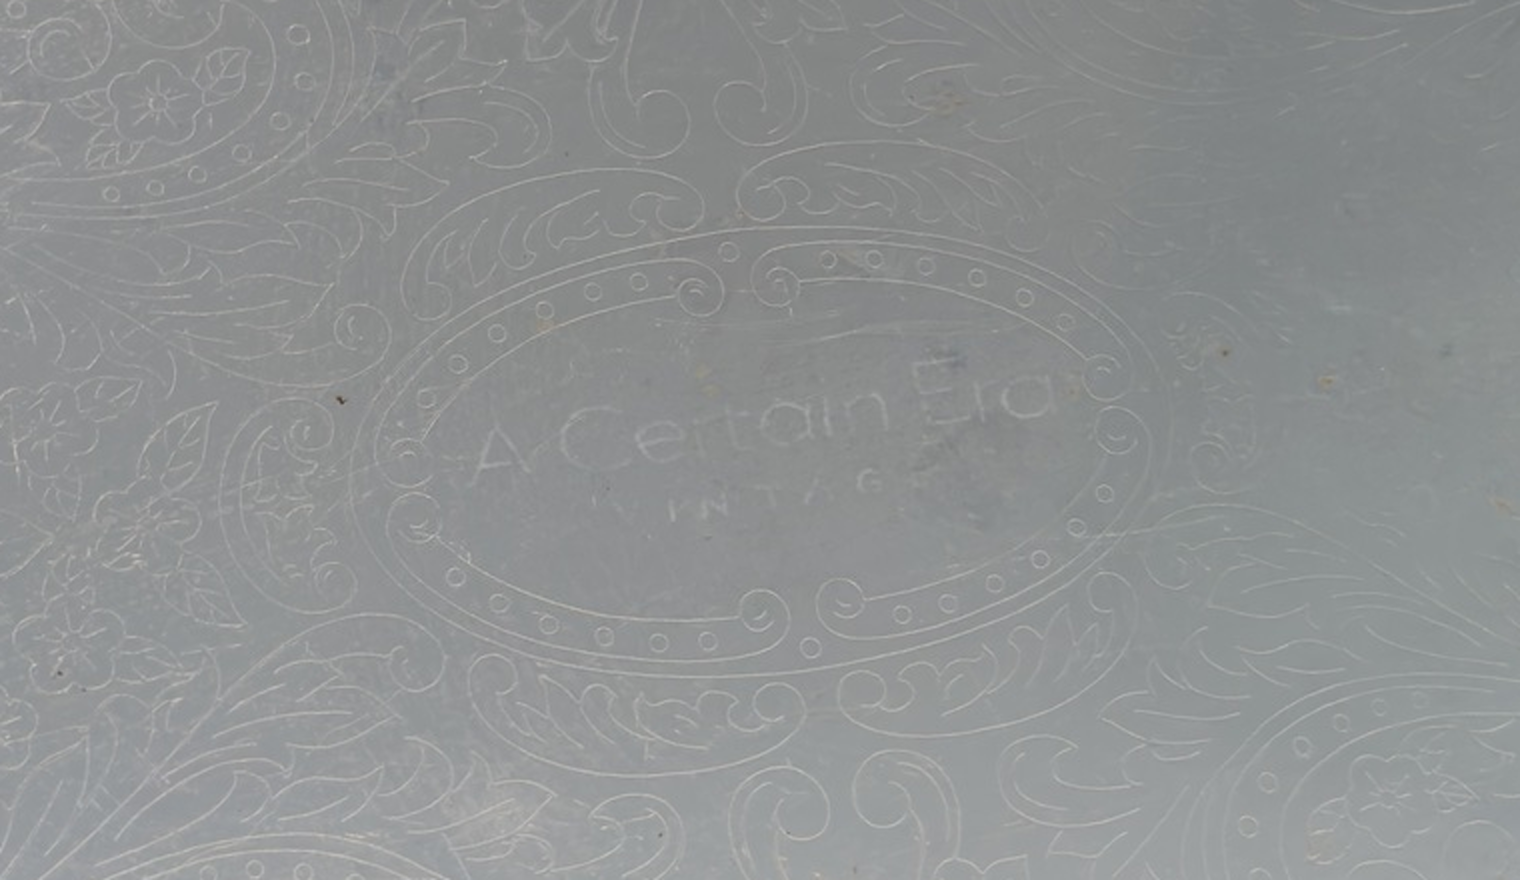
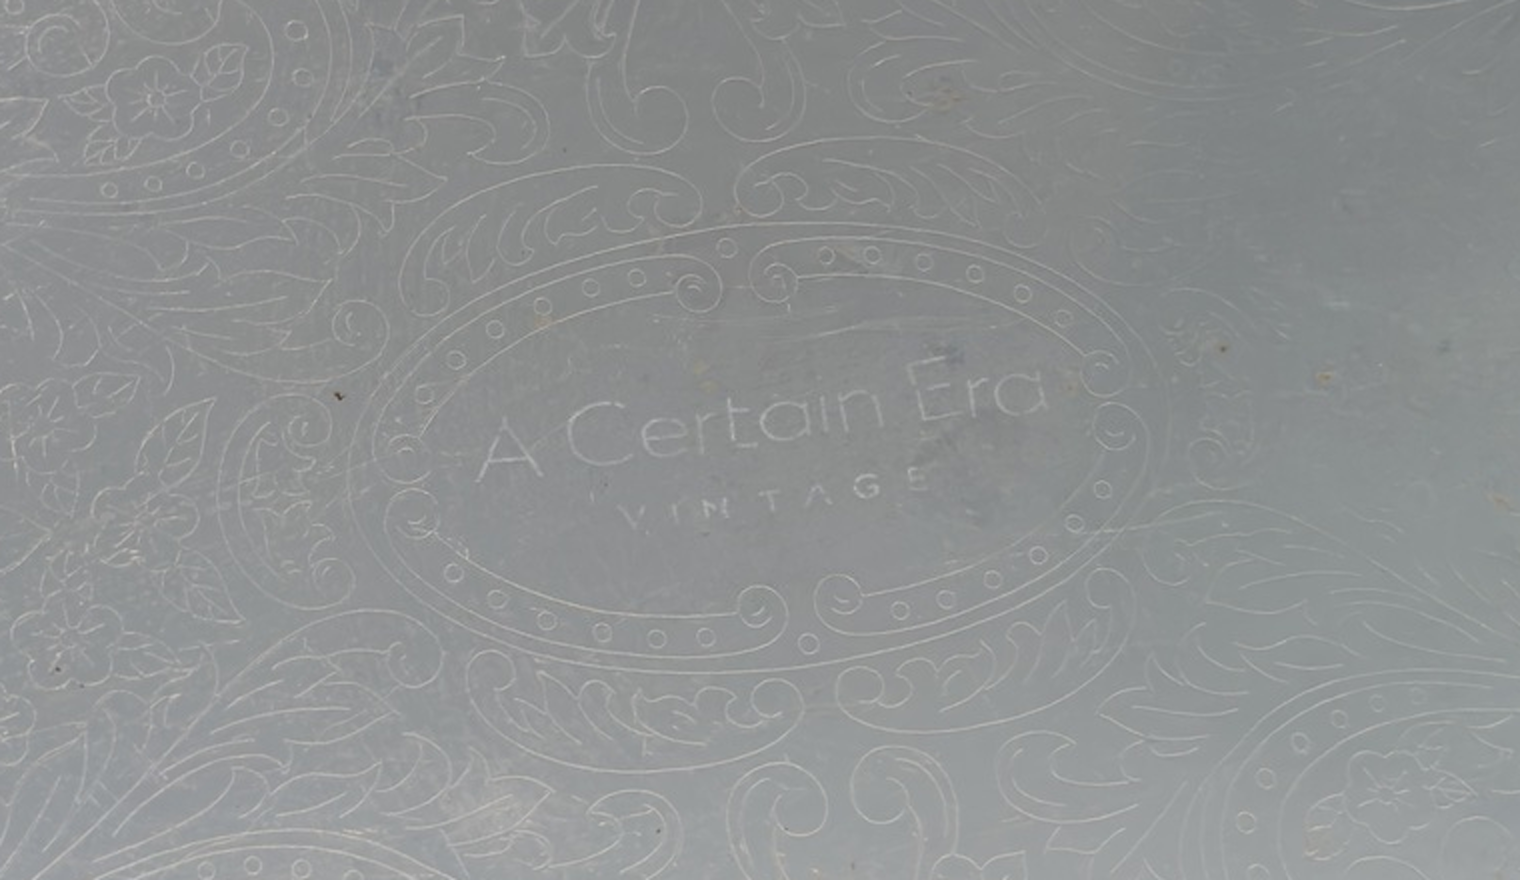
Add local engraving composite pipeline, composites and inpaint masks
Claude-Session: https://claude.ai/code/session_01FnoNauvw2znjSJTbPPxPyf

diff --git a/grawer/composite/make_composite.py b/grawer/composite/make_composite.py
@@ -36,34 +36,39 @@ CENTER        = (1106, 1300)    # where the centre of the text block lands
 APPARENT_TILT = -7.0            # deg, image-space slope of the tray's long axis (neg = right side up)
 FORESHORTEN   = 0.84            # vertical squash from camera tilt (1 = straight top-down)
 KEYSTONE      = 0.985           # far(top) edge width / near(bottom) edge width over the text height
-TEXT_WIDTH    = {'third': 490, 'cartouche': 300}[VARIANT]   # px width of "A Certain Era" before squash
+TEXT_WIDTH    = {'third': 420, 'cartouche': 290}[VARIANT]   # px width of "A Certain Era" before squash
 VINTAGE_SCALE = 1.12            # VINTAGE line slightly enlarged vs logo (engravers keep small caps legible)
-LINE_GAP_ADD  = 0.10            # extra gap between the two lines (fraction of cap height)
+LINE_GAP_ADD  = 0.30            # extra gap between the two lines (fraction of cap height)
 
 # Engraved line look (final image pixels)
 SS            = 4               # supersampling factor for drawing
-LINE_W        = 1.9             # core width of a burin cut
-LINE_GAIN     = 0.20            # how far toward white the cut lifts the metal (existing lines ~0.15-0.25)
+LINE_W        = 1.7             # core width of a burin cut
+LINE_GAIN     = 0.30            # how far toward white the cut lifts the metal (existing lines ~0.15-0.25)
 DARK_EDGE     = 7.0             # grey levels of faint shadow on one side of the cut (0 = off)
 DARK_DIR      = (0.0, 1.0)      # unit vector (x,y) image space: shadow side (light from top)
-WOBBLE_AMP    = 0.55            # px, slow hand wobble
-WOBBLE_SCALE  = 9.0             # px, wavelength-ish of wobble
-TREMOR_AMP    = 0.22            # px, fine tremor
+WOBBLE_AMP    = 0.40            # px, slow hand wobble
+WOBBLE_SCALE  = 16.0            # px, wavelength-ish of wobble
+TREMOR_AMP    = 0.07            # px, fine tremor
 BASELINE_AMP  = 1.6             # px, slow baseline drift across the line of text
 LETTER_JIT    = (0.7, 0.6, 1.3) # per-letter sigma: dx px, dy px, rotation deg
-OPACITY_RANGE = (0.35, 1.0)     # along-stroke strength variation (wear / pressure)
-GAP_FRACTION  = 0.07            # fraction of stroke length that skips/worn away
+OPACITY_RANGE = (0.50, 1.0)     # along-stroke strength variation (wear / pressure)
+GAP_FRACTION  = 0.04            # fraction of stroke length that skips/worn away
 N_RECUTS      = 4               # number of doubled (re-cut) segments
 N_SLIPS       = 3               # tiny burin overshoot tails at stroke ends
-SPARKLE       = 0.45            # multiplicative frosted glint noise amplitude
-FINAL_BLUR    = 0.55            # gaussian sigma to match photo softness
+SPARKLE       = 0.28            # multiplicative frosted glint noise amplitude
+FINAL_BLUR    = 0.40            # gaussian sigma to match photo softness
 JPEG_ROUNDTRIP= 92              # re-encode composite through JPEG at this quality (0 = off)
 
 # Cartouche clearing (fade existing floral lines under/around the text)
+# For 'third' the text is larger than the existing dotted cartouche, so we engrave a NEW
+# double-line oval frame (same burin look) around the text and remove the old floral lines
+# inside it -- exactly what an engraver adding a presentation inscription would do.
 CLEAR         = {'third': True, 'cartouche': False}[VARIANT]
-CLEAR_PAD     = (40, 22)        # px padding of the cleared ellipse around the text block
-CLEAR_FEATHER = 18              # px soft edge of the cleared zone
-CLEAR_AMOUNT  = 0.85            # 1 = lines fully removed in the centre of the zone
+FRAME_AXES    = (272, 142)      # px semi-axes of the new oval frame (tray plane, pre-squash);
+                                # chosen to enclose the text AND the old dotted cartouche completely
+BORDER_GAP    = 5.0             # px between the two frame lines (0 = single line)
+CLEAR_FEATHER = 1.5             # px soft edge of the cleared zone (just inside the frame)
+CLEAR_AMOUNT  = 1.0             # 1 = old lines fully removed inside the frame
 
 rng = np.random.default_rng(SEED)
 
@@ -180,13 +185,25 @@ for k, (gx0, gx1, gl) in groups.items():
 mask = (work > 0.5).astype(np.uint8)
 ys, xs = np.where(mask)
 pad = int(12 * SS)
-y0, y1, x0, x1 = max(0, ys.min() - pad), ys.max() + pad, max(0, xs.min() - pad), xs.max() + pad
-mask = mask[y0:y1, x0:x1]
+padx = pady = pad
+if CLEAR:
+    padx = max(pad, int((FRAME_AXES[0] + 8) * SS - (xs.max() - xs.min()) / 2))
+    pady = max(pad, int((FRAME_AXES[1] + 8) * SS - (ys.max() - ys.min()) / 2))
+mask = np.pad(mask, ((pady, pady), (padx, padx)))
+mask = mask[ys.min(): ys.max() + 2 * pady, xs.min(): xs.max() + 2 * padx]
 mask = cv2.morphologyEx(mask, cv2.MORPH_CLOSE, np.ones((3, 3), np.uint8))
 
 # ----------------------------------------------------------------- 2. centreline (single burin cut)
 skel = zhang_suen(mask)
 Hs, Ws = skel.shape
+if CLEAR:
+    ax, ay = int(FRAME_AXES[0] * SS), int(FRAME_AXES[1] * SS)
+    cv2.ellipse(skel, (Ws // 2, Hs // 2), (ax, ay), 0, 0, 360, 1, 1)
+    if BORDER_GAP > 0:
+        g_ = int(BORDER_GAP * SS)
+        cv2.ellipse(skel, (Ws // 2, Hs // 2), (ax - g_, ay - g_), 0, 0, 360, 1, 1)
+    zone_plane = np.zeros((Hs, Ws), np.float32)
+    cv2.ellipse(zone_plane, (Ws // 2, Hs // 2), (ax + int(1.5 * SS), ay + int(1.5 * SS)), 0, 0, 360, 1, -1)
 
 # endpoints (for slips) & skeleton pixel list
 nb = cv2.filter2D(skel.astype(np.float32), -1, np.ones((3, 3), np.float32)) - skel
@@ -202,7 +219,7 @@ if len(endpoints):
         v = np.array([ey, ex]) - nbh.mean(0)
         if np.linalg.norm(v) < 1e-3: continue
         v /= np.linalg.norm(v)
-        L = rng.uniform(2.5, 5.5) * SS
+        L = rng.uniform(1.5, 3.5) * SS
         bend = rng.normal(0, 0.15)
         p1 = (int(ex + (v[1] + bend * v[0]) * L), int(ey + (v[0] - bend * v[1]) * L))
         cv2.line(slips, (int(ex), int(ey)), p1, 1, 1)
@@ -280,20 +297,27 @@ block = cv2.warpPerspective(np.ones((hf, wf), np.float32), Hm, (Wb, Hb))
 out = base.copy()
 ys, xs = np.where(layer > 0.05)
 ecx, ecy = (xs.min() + xs.max()) / 2, (ys.min() + ys.max()) / 2
-eax, eay = (xs.max() - xs.min()) / 2 + CLEAR_PAD[0], (ys.max() - ys.min()) / 2 + CLEAR_PAD[1]
+eax, eay = (xs.max() - xs.min()) / 2, (ys.max() - ys.min()) / 2
 if CLEAR:
-    zone = np.zeros((Hb, Wb), np.float32)
-    cv2.ellipse(zone, (int(ecx), int(ecy)), (int(eax), int(eay)), APPARENT_TILT, 0, 360, 1, -1)
+    zsmall = cv2.resize(zone_plane, (wf, hf), interpolation=cv2.INTER_AREA)
+    zone = cv2.warpPerspective(zsmall, Hm, (Wb, Hb))
     zone = cv2.GaussianBlur(zone, (0, 0), CLEAR_FEATHER) * CLEAR_AMOUNT
+    # remove old engraved lines: detect them (bright thin = top-hat), inpaint, then
+    # rebuild a smooth metal base + re-synthesised grain so the patch is not plasticky
     g = cv2.cvtColor(base.astype(np.uint8), cv2.COLOR_BGR2GRAY)
-    th_ = cv2.morphologyEx(g, cv2.MORPH_TOPHAT, np.ones((9, 9), np.uint8))
-    linemask = ((th_ > 7) & (zone > 0.02)).astype(np.uint8) * 255
-    linemask = cv2.dilate(linemask, np.ones((3, 3), np.uint8))
-    clean = cv2.inpaint(base.astype(np.uint8), linemask, 4, cv2.INPAINT_TELEA).astype(np.float32)
-    # inpaint loses grain: put back fine noise from the original high-pass
-    hp = base - cv2.GaussianBlur(base, (0, 0), 1.2)
-    hp_clean = np.where(linemask[..., None] > 0, np.roll(hp, 7, axis=1), hp)
-    clean = cv2.GaussianBlur(clean, (0, 0), 1.2) + hp_clean
+    th_ = cv2.morphologyEx(g, cv2.MORPH_TOPHAT, np.ones((11, 11), np.uint8))
+    linemask = ((th_ > 4) & (zone > 0.01)).astype(np.uint8) * 255
+    linemask = cv2.dilate(linemask, np.ones((5, 5), np.uint8))
+    clean = cv2.inpaint(base.astype(np.uint8), linemask, 6, cv2.INPAINT_TELEA).astype(np.float32)
+    clean = cv2.medianBlur(clean.astype(np.uint8), 9).astype(np.float32)
+    clean = cv2.GaussianBlur(clean, (0, 0), 3.0)
+    # grain statistics from a line-free part of the original metal
+    hp = base - cv2.GaussianBlur(base, (0, 0), 1.0)
+    free = (linemask == 0) & (zone > 0.5)
+    gstd = hp[free].std(0) if free.sum() > 100 else np.float32([2, 2, 2])
+    n_ = rng.standard_normal((Hb, Wb)).astype(np.float32)
+    n_ = cv2.GaussianBlur(n_, (0, 0), 0.7); n_ /= n_.std()
+    clean = clean + n_[..., None] * gstd[None, None, :] * 0.9
     out = base * (1 - zone[..., None]) + clean * zone[..., None]
 
 # ----------------------------------------------------------------- 6. blend the cut
@@ -325,7 +349,10 @@ crop = out[cy0:cy0 + 440, cx0:cx0 + 760]
 cv2.imwrite(os.path.join(OUT_DIR, f'composite-{v}-zoom.png'), cv2.resize(crop, None, fx=2, fy=2, interpolation=cv2.INTER_CUBIC))
 # inpaint mask: text block + generous margin, soft edge (white = editable)
 im = np.zeros((Hb, Wb), np.float32)
-cv2.ellipse(im, (int(ecx), int(ecy)), (int(eax + 30), int(eay + 30)), APPARENT_TILT, 0, 360, 1, -1)
+cv2.ellipse(im, (int(ecx), int(ecy)), (int(eax + 28), int(eay + 24)), APPARENT_TILT, 0, 360, 1, -1)
 im = cv2.GaussianBlur(im, (0, 0), 6)
 cv2.imwrite(os.path.join(OUT_DIR, f'mask-inpaint-{v}.png'), (im * 255).astype(np.uint8))
 print('done', v, 'text bbox', xs.min(), xs.max(), ys.min(), ys.max())
+# tight mask: only the cuts + 6 px (re-texture lines without letting the model redraw glyphs)
+tight = cv2.dilate((layer * LINE_GAIN * 255 * 2 > 10).astype(np.uint8) * 255, cv2.getStructuringElement(cv2.MORPH_ELLIPSE, (13, 13)))
+cv2.imwrite(os.path.join(OUT_DIR, f'mask-inpaint-tight-{v}.png'), cv2.GaussianBlur(tight, (0, 0), 2))

diff --git a/grawer/composite/README.md b/grawer/composite/README.md
@@ -1,0 +1,103 @@
+# Engraved logo composite: deterministic pipeline + AI harmonization
+
+The goal is to stop asking the model to *invent* the engraving. We draw it ourselves, as single
+hand-made burin lines in the photo's own perspective and tone. The model then only harmonizes the
+pixels.
+
+## Files
+
+| file | what |
+|---|---|
+| `make_composite.py` | the whole pipeline; parameters at the top. `python3 make_composite.py [cartouche|third] [seed]` |
+| `composite-cartouche.png` / `-zoom.png` | **variant A (recommended)**: inscription placed inside the tray's existing empty dotted cartouche (~290 px, about 20% of the inner oval). No existing engraving is removed. |
+| `composite-third.png` / `-zoom.png` | **variant B**: "A Certain Era" is about 1/3 of the inner oval (420 px, ~29%). The old dotted cartouche and nearby leaves are removed inside a NEW engraved double-line oval frame. |
+| `engraving-lines-<v>.png` | flat (un-warped) single-line engraving, grey intensity |
+| `engraving-layer-<v>.png` | RGBA layer in photo coordinates (white, alpha = cut strength) |
+| `mask-inpaint-<v>.png` | inpaint mask (white = may change), see below |
+
+Requirements: `pip install numpy opencv-python-headless`. Each run takes about 5 s. The output is deterministic for a given seed.
+
+## Pipeline (make_composite.py)
+
+1. **Per-letter irregularity on the logo.** Connected components are grouped into letters (the
+   i-dot stays with its stem). Each letter gets a small random dx/dy/rotation (σ 0.7 px, 0.6 px,
+   1.3°). A slow two-frequency baseline drift is added, so the baseline wanders and the spacing
+   varies slightly. VINTAGE is enlarged 12% and moved a little further down for legibility.
+2. **Centreline.** A Zhang-Suen skeleton turns every stroke into one burin cut. It is drawn at 4x
+   supersampling as a 1.7 px line in final pixels. Stroke ends get 1–3 short "slip" overshoots, and 4
+   short doubled "re-cut" segments are offset by 1–2 px.
+3. **Hand wobble.** A smooth displacement field (0.4 px over ~16 px) plus a tiny tremor (0.07 px)
+   is applied. Larger values look like pencil sketching, not a burin.
+4. **Wear and pressure.** Smooth noise varies the line strength between 0.5 and 1.0 along the
+   strokes. About 4% of the stroke length is skipped as gaps. Pixel sparkle and rare glints give the
+   frosted look. The result is downsampled with an area filter.
+5. **Perspective.** A homography sets the apparent tilt to −7° (measured from the inner oval's long
+   axis), adds 0.84 vertical foreshortening and a slight keystone. It is centred at (1106, 1300),
+   which is the centre of the existing dotted cartouche.
+6. **Tone.** Measured on the photo, the existing cuts are about +15–25 grey levels over a ~138
+   background, 2–3 px wide, with a slight dark dip on one side. The cut is blended as
+   `base + 0.30·L·(248−base)` and a 7-level dark edge is added on the lower side.
+7. **(Variant B only) Clearing.** Old lines inside the new frame are found with a morphological
+   top-hat and removed with an inpaint plus median/Gaussian smoothing. Grain is re-synthesized from
+   the noise statistics of the original metal.
+8. **Softness.** A Gaussian blur of 0.4 px is applied, then the edited area only goes through one
+   JPEG q92 round-trip. Every pixel outside the edit is bit-identical to `input/tacka.jpg`.
+
+## Honest assessment
+
+- **Strengths.** The letter strokes have the same width, tone and crisp frosted look as the floral
+  cuts. They are single lines with no double outline and no fake depth, and the perspective
+  matches the tray. Variant A looks believable at normal viewing size, because a monogram inside an
+  empty cartouche is what real trays have.
+- **Weaknesses.**
+  - The letter shapes are still the geometric logo font. A real engraver would add slight
+    script-like stroke-weight swelling (burin cuts get wider where pressed harder). Ours vary only in
+    brightness.
+  - At small sizes (VINTAGE in variant A, ~11 px tall) the gaps can read as missing letters
+    ("VIN TAGE"). Re-roll the seed or set `GAP_FRACTION=0.02`.
+  - Skeleton forks at sharp apexes (the top of "A") leave a tiny tick. It reads as an overshoot, but
+    it is visible at 2x zoom.
+  - In variant B the cleared interior is a little too smooth and uniform compared with the
+    smudged original metal. The new frame also cuts the leaf scrolls abruptly.
+  - The 3D look of the cut is very subtle. Some light-dependent sparkle variation is missing.
+
+## Recommended AI step 1: Nano Banana 2 harmonize pass (cheap, keeps shape)
+
+Inputs: **Image 1 = `composite-cartouche.png`** (or `composite-third.png`). Optionally,
+**Image 2 = `input/wzor-grawerunku-zblizenie.png`** as the line-finish reference. Do NOT pass the
+logo PNG: it pulls the model back to clean font outlines. Use low creativity if the API exposes it,
+same aspect ratio, 2K.
+
+Prompt draft:
+
+> Retouch Image 1 very lightly so it looks like an unedited phone photo. Image 1 already shows an
+> old silver-plated tray with a hand-engraved inscription "A Certain Era" / "VINTAGE" in the
+> centre. Keep the inscription exactly where it is, with exactly the same letter shapes, size,
+> spacing, perspective and thin single-line strokes. Do not redraw, retype, thicken, outline or
+> straighten it. Only make the inscription's engraved lines share the same finish as the
+> surrounding floral engraving (shown up close in Image 2): fine pale frosted burin cuts with tiny
+> glints, slightly uneven pressure, a little worn by decades of polishing, with the tray's faint
+> smudges and fine scratches passing over them. Everything else in Image 1 stays pixel-identical:
+> tray, rim, reflections, stains, floral engraving, rug, framing, colour, softness and grain.
+
+If it still "re-fonts" the letters, drop the word "inscription" and describe the change as "unify
+the finish of all engraved lines in the centre". Some generations will regress. Compare each one
+against the composite and keep the composite if the model makes it worse.
+
+## Recommended AI step 2 (alternative): masked inpaint on Comfy Cloud (bfl/flux-pro-fill)
+
+A mask keeps everything outside the inscription untouched. Flux Fill is strong at texture
+continuation. Use `mask-inpaint-<v>.png`: white = regenerate, black = keep. It is a soft-edged
+ellipse in photo coordinates, tilted −7°, covering the text block plus a ~25–30 px margin. For
+variant B, regenerate a mask that covers the whole new frame (set the ellipse in step 7 of the
+script to the frame size) if you also want the cleared patch re-textured.
+
+- Image: `composite-<v>.png` (full res 2076x2576). Mask: `mask-inpaint-<v>.png`.
+- **Feed the composite, not the original.** With the inscription already present, Fill continues
+  it instead of inventing letters.
+- Prompt for Fill (describe the final state of the masked area):
+  `close-up of worn silver-plated metal tray surface with a hand-engraved inscription "A Certain Era" above small spaced capitals "VINTAGE", single fine pale frosted burin lines, slightly uneven, low contrast, soft diffuse daylight, phone photo`
+- Use low guidance and steps to stay close (e.g. guidance ~15–20 on flux-pro-fill, steps 30). If
+  Fill garbles the letters, shrink the mask to a ~6 px dilation of the line layer. To make it,
+  the script saves it as `mask-inpaint-tight-<v>.png` (layer alpha > 10, dilated 6 px, blurred 2 px). Fill then only
+  re-textures the cuts and their immediate surroundings and cannot redraw the glyphs.
